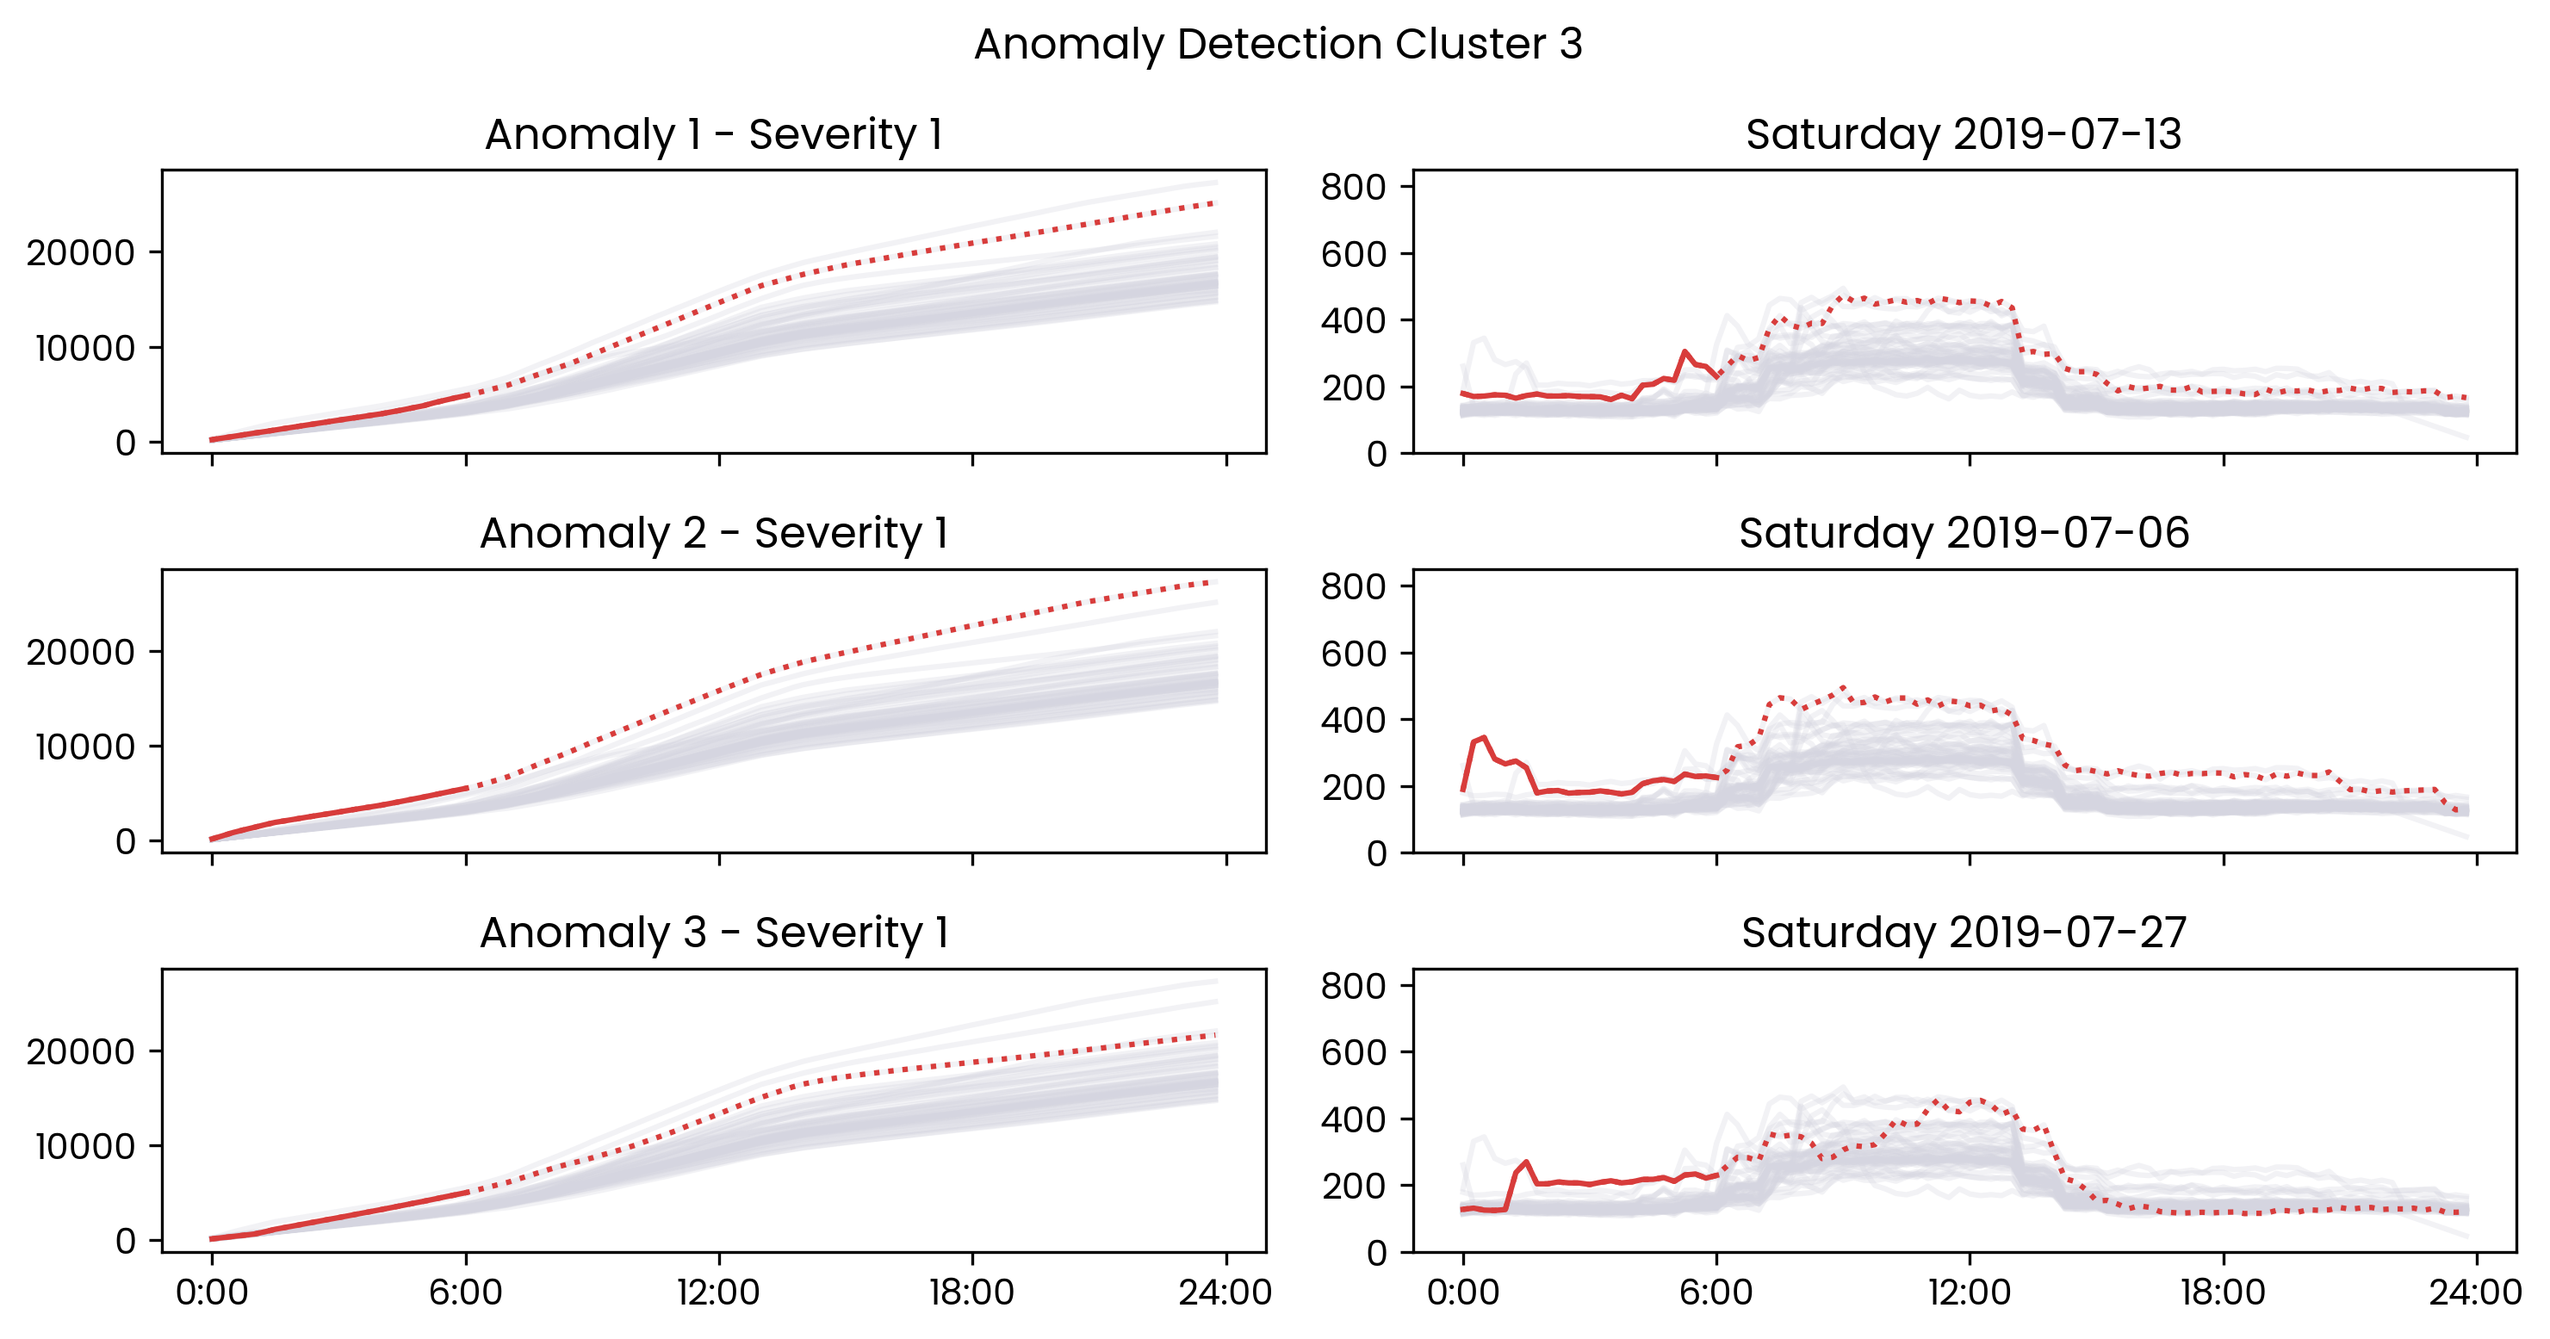
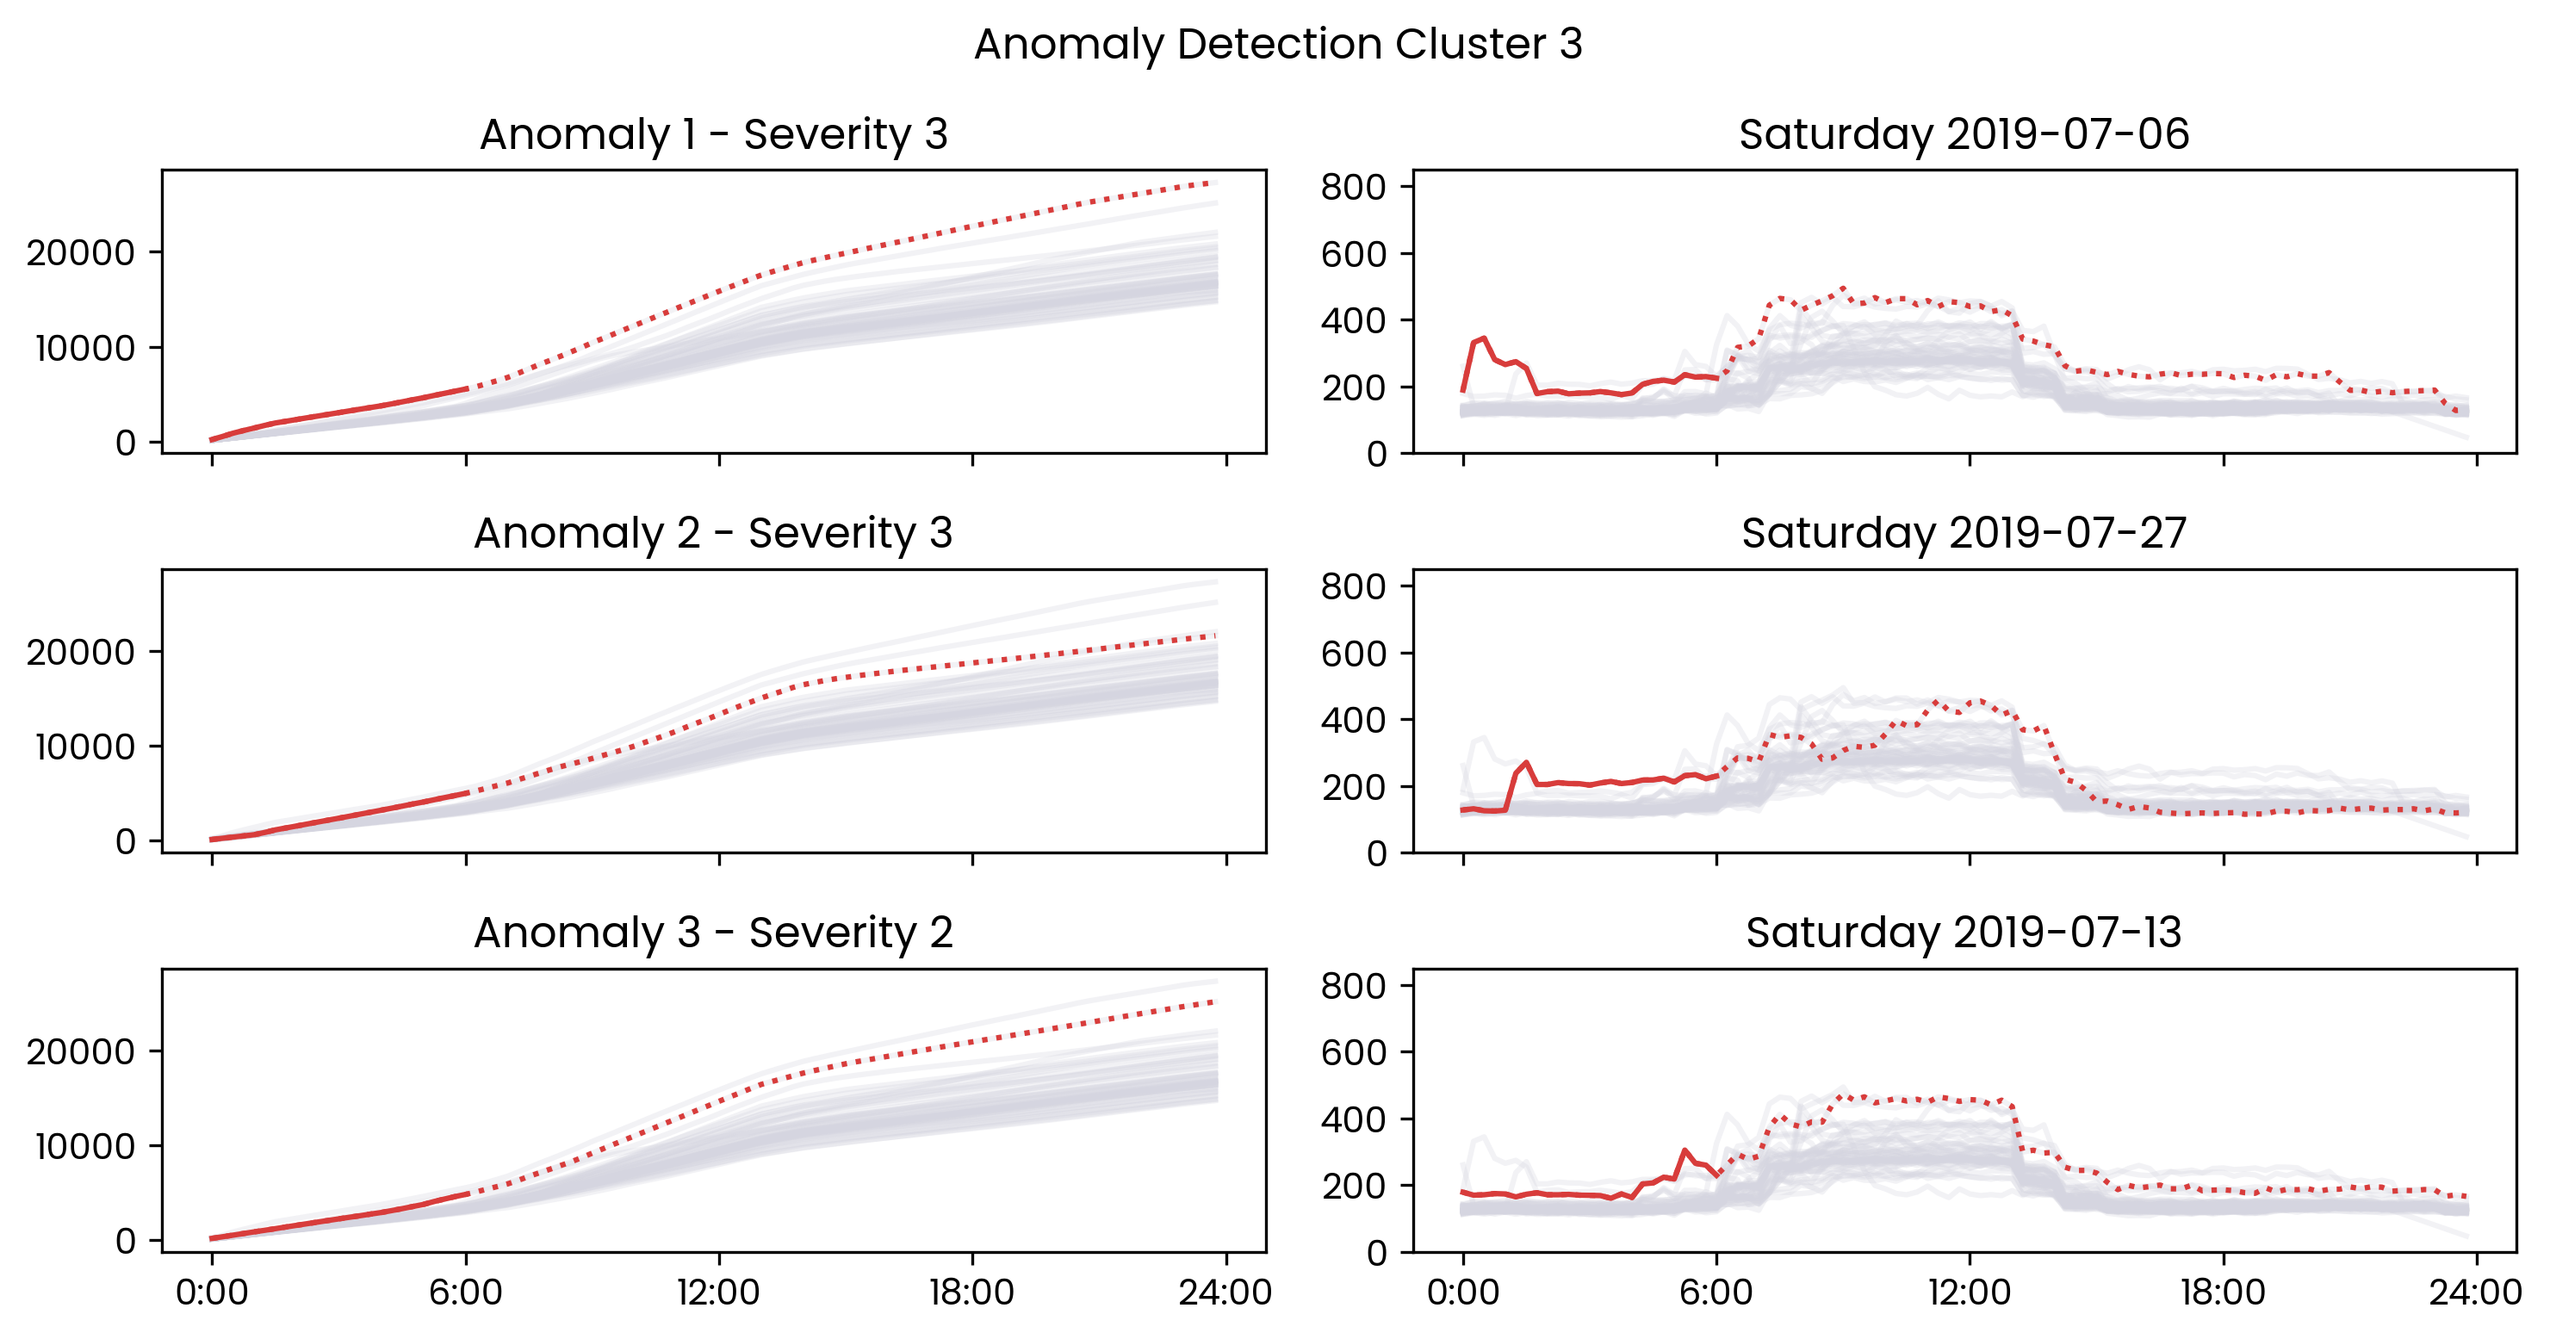
added zscore and elbow and tested on the overall script
problem with plot to be solved

diff --git a/Roberto Chiosa/CMP/anomaly_detection_functions.py b/Roberto Chiosa/CMP/anomaly_detection_functions.py
@@ -1,43 +1,49 @@
-import os
-
 import matplotlib.pyplot as plt
 import numpy as np
 import pandas as pd
+import scipy.stats as stats
+import seaborn as sns
+from kneed import KneeLocator
 
 
-######################## METHOD_1_MEDIAN_BOXPLOT ###########################
-def anomaly_detection_boxplot(group, group_cmp):
+def boxplot_fun(group, group_cmp):
+    """ Implements outlier detection through IQR rule and box-plot
+
+    :param group: is an 365 length array defining group (values 0 and 1)
+    :type group: np.ndarray
+
+    :param group_cmp:  is the cmp matrix by group (i.e., cluster)
+    :type group_cmp: np.ndarray
+
+    :return column: array of same length of group specifying if outlier or not (values 0 and 1)
+    :rtype column: np.ndarray
+
+    :return fig: figure of the method
+    :rtype fig: plot
     """
-    :param group: description
-    :type group: array
 
-    :param group_cmp: matrix
-    :type group_cmp: array
+    # get the median of the columns of the matrix
+    columns_median = np.nanmedian(group_cmp, axis=0)
 
-    :return: column array
-    :rtype: the return type description
-    """
-
-    group = np.array(group).flatten()
-
-    columns_median = np.nanmedian(group_cmp, axis=0)  # get the median of the columns
-
+    # plot
     fig, ax = plt.subplots()
     bp = ax.boxplot(columns_median, notch=True, patch_artist=True)
     ax.set_ylabel('Distribution of the columns median')
     ax.axes.get_xaxis().set_visible(False)  # remove x-axis
     ax.set_title('Notched box plot')
 
-    outliers_both_whisker = [flier.get_ydata() for flier in bp["fliers"]]  # get the outliers
+    # get the outliers
+    outliers_both_whisker = [flier.get_ydata() for flier in bp["fliers"]]
     outliers_both_whisker = np.array(outliers_both_whisker)
     outliers = outliers_both_whisker[outliers_both_whisker > np.median(columns_median)]
+
     # create an array of medians according cluster on yearly period
     median_of_day = np.zeros(group.size)
-    jj = 0
-    for ii in range(group.size):
-        if group[ii] == 1 and jj < len(group_cmp):
-            median_of_day[ii] = columns_median[jj]
-            jj = jj + 1
+    j = 0
+    for i in range(0, group.size):
+        if group[i] == 1:
+            median_of_day[i] = columns_median[j]
+            j = j + 1
 
     # take the outliers
     try:
@@ -49,30 +55,139 @@ def anomaly_detection_boxplot(group, group_cmp):
     return column, fig
 
 
-def anomaly_detection(group, group_cmp):
-    """
-    This function implements the anomaly detection methods
+def zscore_fun(group, group_cmp, upper_bound=2):
+    """ Implements outlier detection through z-score standardization
 
-    :param group:
-    :param group_cmp:
-    :return:
+    :param group: is an 365 length array defining group (values 0 and 1)
+    :type group: np.ndarray
+
+    :param group_cmp:  is the cmp matrix by group (i.e., cluster)
+    :type group_cmp: np.ndarray
+
+    :param upper_bound:  upper bount for zscore outlier
+    :type upper_bound: float
+
+    :return column: array of same length of group specifying if outlier or not (values 0 and 1)
+    :rtype column: np.ndarray
+
+    :return fig: figure of the method
+    :rtype fig: plot
     """
-    column_1, plot_1 = anomaly_detection_boxplot(group, group_cmp)
+
+    # get the median of the columns of the matrix
+    columns_median = np.nanmedian(group_cmp, axis=0)
+
+    zscore = stats.zscore(columns_median)
+
+    fig, ax = plt.subplots()
+    sns.kdeplot(data=zscore)
+    plt.axvline(x=upper_bound, ymin=0, ymax=1, linestyle='dashed', color='gray')
+
+    # create an array of medians according cluster on yearly period
+    outliers = np.zeros(group.size)
+    j = 0
+
+    # define vector outliers as same dimensions of group (365)
+    for i in range(group.size):
+        if group[i] == 1:
+            outliers[i] = zscore[j]
+            j = j + 1
+
+    # identify outliers depending on the upper bound
+    for k in range(group.size):
+        if outliers[k] > upper_bound:
+            outliers[k] = 1
+        else:
+            outliers[k] = 0
+
+    column = outliers
+    return column, fig
+
+
+def elbow_fun(group, group_cmp):
+    """ Implements outlier detection through elbow method, the values on the sx of the elbow of a curve are labelled as anomaly
+
+    :param group: is an 365 length array defining group (values 0 and 1)
+    :type group: np.ndarray
+
+    :param group_cmp:  is the cmp matrix by group (i.e., cluster)
+    :type group_cmp: np.ndarray
+
+    :return column: array of same length of group specifying if outlier or not (values 0 and 1)
+    :rtype column: np.ndarray
+
+    :return fig: figure of the method
+    :rtype fig: plot
+    """
+
+    columns_median = np.nanmedian(group_cmp, axis=0)  # get the median of the columns
+
+    xx = np.array(range(0, columns_median.size))
+    yy = np.sort(columns_median)[::-1]  # decreasing
+    kn = KneeLocator(xx, yy, curve='convex', direction='decreasing')
+    num_anomalies_to_show = kn.knee
+
+    fig, ax = plt.subplots(figsize=(6, 5))
+    plt.plot(yy)
+    plt.ylabel("Anomaly Score")
+    plt.title("Sorted Anomaly Scores")
+    plt.axvline(num_anomalies_to_show, ls=":", c="gray")
+    anomaly_ticks = list(range(0, columns_median.size, int(columns_median.size / 5)))
+    anomaly_ticks.append(num_anomalies_to_show)
+    plt.xticks(anomaly_ticks)
+
+    # create an array of medians according cluster on yearly period
+    outliers = np.zeros(group.size)
+
+    j = 0
+    for i in range(group.size):
+        if group[i] == 1:
+            outliers[i] = columns_median[j]
+            j = j + 1
+
+    # take the outliers
+    anomaly_day = yy[0:num_anomalies_to_show]
+    threshold = min(anomaly_day)
+    column = (outliers >= threshold) * 1
+
+    return column, fig
+
+
+def anomaly_detection(group, group_cmp):
+    """ This function implements the anomaly detection methods
+
+    :param group: is an 365 length array defining group (values 0 and 1)
+    :type group: np.ndarray
+
+    :param group_cmp:  is the cmp matrix by group (i.e., cluster)
+    :type group_cmp: np.ndarray
+
+    :return cmp_ad_score: array of same length of group specifying the severity
+    :rtype cmp_ad_score: np.ndarray
+
+    """
+    column_1, plot_1 = boxplot_fun(group=group, group_cmp=group_cmp)
+    column_2, plot_2 = zscore_fun(group=group, group_cmp=group_cmp, upper_bound=2.5)
+    column_3, plot_3 = elbow_fun(group=group, group_cmp=group_cmp)
 
     df = pd.DataFrame()
     df['box-plot'] = pd.Series(column_1.astype(int))
+    df['z-score'] = pd.Series(column_2.astype(int))
+    df['elbow'] = pd.Series(column_3.astype(int))
 
     # majority voting
     df['severity'] = df.sum(axis=1, numeric_only=True)
 
     # return the severity as ndarray to integrate on main code
     cmp_ad_score = np.asarray(df['severity'])
+
     return cmp_ad_score
 
 
-#
-## group
-# useful paths
+# uncomment when testing / comment when deploying
+
+import os
+
 path_to_data = os.getcwd() + os.sep + 'Polito_Usecase' + os.sep + 'data'
 path_to_figures = os.getcwd() + os.sep + 'Polito_Usecase' + os.sep + 'figures'
 

diff --git a/Simone Vitale/Anomaly_Score/methods.py b/Simone Vitale/Anomaly_Score/methods.py
@@ -1,16 +1,16 @@
 ## import
-import os
 import matplotlib.pyplot as plt
-import seaborn as sns
-import pandas as pd
 import numpy as np
-
-from scipy import stats
-from kneed import KneeLocator
+import os
+import pandas as pd
+import seaborn as sns
 from GESD_function import ESD_Test
+from kneed import KneeLocator
+from scipy import stats
+
 
 ######################## METHOD_1_MEDIAN_BOXPLOT ###########################
-def boxplot_fun(group,group_cmp):
+def boxplot_fun(group, group_cmp):
     '''
     This function helps to analyze data through box-plot
     :param group: is an array of length 365 holding cluster membership through values 0 and 1
@@ -29,8 +29,8 @@ def boxplot_fun(group,group_cmp):
     ax.set_title('Notched box plot')
 
     outliers_both_whisker = [flier.get_ydata() for flier in bp["fliers"]]  # get the outliers
-    outliers_both_whisker=np.array(outliers_both_whisker)
-    outliers= outliers_both_whisker[outliers_both_whisker>np.median(columns_median)]
+    outliers_both_whisker = np.array(outliers_both_whisker)
+    outliers = outliers_both_whisker[outliers_both_whisker > np.median(columns_median)]
 
     # create an array of medians according cluster on yearly period
     median_of_day = np.zeros(group.size)
@@ -48,46 +48,47 @@ def boxplot_fun(group,group_cmp):
 
 
 ######################## METHOD_2_ZSCORE-MEDIAN ###########################
-def zscore_fun(group,group_cmp):
-   '''
-   This function helps to analyze data through z-score trasformation
-   :param group: is an array of length 365 holding cluster membership through values 0 and 1
-   :param group_cmp: is the cmp by cluster
-   :return: this function will return an outliers in the form( true or false) and a figure
-   '''
+def zscore_fun(group, group_cmp):
+    '''
+    This function helps to analyze data through z-score trasformation
+    :param group: is an array of length 365 holding cluster membership through values 0 and 1
+    :param group_cmp: is the cmp by cluster
+    :return: this function will return an outliers in the form( true or false) and a figure
+    '''
 
-   group = np.array(group).flatten()
-   columns_median = np.nanmedian(group_cmp, axis=0)  # get the median of the columns
-   zscore=stats.zscore(columns_median)
+    group = np.array(group).flatten()
+    columns_median = np.nanmedian(group_cmp, axis=0)  # get the median of the columns
+    zscore = stats.zscore(columns_median)
 
-   upper_bound=2
+    upper_bound = 2
 
-   fig_2 ,ax=plt.subplots()
-   sns.kdeplot(data=zscore)
-   plt.axvline(x=upper_bound,ymin=0,ymax=1,linestyle='dashed',color='gray')
+    fig_2, ax = plt.subplots()
+    sns.kdeplot(data=zscore)
+    plt.axvline(x=upper_bound, ymin=0, ymax=1, linestyle='dashed', color='gray')
 
-   # create an array of medians according cluster on yearly period
-   outliers = np.zeros(group.size)
-   jj = 0
+    # create an array of medians according cluster on yearly period
+    outliers = np.zeros(group.size)
+    jj = 0
 
-   for ii in range(group.size):
-       if group[ii] == 1 and jj < (len(group_cmp)):
-           outliers[ii] = zscore[jj]
-           jj = jj + 1
+    for ii in range(group.size):
+        if group[ii] == 1 and jj < (len(group_cmp)):
+            outliers[ii] = zscore[jj]
+            jj = jj + 1
 
-   for kk in range(group.size):
-       if  outliers[kk]>upper_bound:
-           outliers[kk]=1
-       else:
-           outliers[kk]=0
+    for kk in range(group.size):
+        if outliers[kk] > upper_bound:
+            outliers[kk] = 1
+        else:
+            outliers[kk] = 0
 
-   # take the outliers
-   column_2=outliers
+    # take the outliers
+    column_2 = outliers
 
-   return(column_2, fig_2)
+    return (column_2, fig_2)
+
 
 ######################## METHOD_3_ELBOW ###########################
-def elbow_fun(group,group_cmp):
+def elbow_fun(group, group_cmp):
     '''
     This function helps to analyze data elbow-methods: the values below the elbow of a curve are labelled as anomaly
     :param group: is an array of length 365 holding cluster membership through values 0 and 1
@@ -99,17 +100,17 @@ def elbow_fun(group,group_cmp):
 
     columns_median = np.nanmedian(group_cmp, axis=0)  # get the median of the columns
 
-    xx = np.array(range(0,columns_median.size))
-    yy = np.sort(columns_median)[::-1] #decreasing
+    xx = np.array(range(0, columns_median.size))
+    yy = np.sort(columns_median)[::-1]  # decreasing
     kn = KneeLocator(xx, yy, curve='convex', direction='decreasing')
     num_anomalies_to_show = kn.knee
 
-    fig_3,ax=plt.subplots(figsize=(6,5))
+    fig_3, ax = plt.subplots(figsize=(6, 5))
     plt.plot(yy)
     plt.ylabel("Anomaly Score")
     plt.title("Sorted Anomaly Scores")
     plt.axvline(num_anomalies_to_show, ls=":", c="gray")
-    anomaly_ticks = list(range(0,columns_median.size, int(columns_median.size/ 5)))
+    anomaly_ticks = list(range(0, columns_median.size, int(columns_median.size / 5)))
     anomaly_ticks.append(num_anomalies_to_show)
     plt.xticks(anomaly_ticks)
 
@@ -126,12 +127,13 @@ def elbow_fun(group,group_cmp):
     # take the outliers
     anomaly_day = yy[0:num_anomalies_to_show]
     threshold = min(anomaly_day)
-    column_3=(outliers >= threshold)*1
+    column_3 = (outliers >= threshold) * 1
 
     return (column_3, fig_3)
 
+
 ######################## METHOD_4_GESED ###########################
-def gesd_fun(group,group_cmp):
+def gesd_fun(group, group_cmp):
     '''
     This function helps to detect outliers through GESD-test:
     :param group: is an array of length 365 holding cluster membership through values 0 and 1
@@ -147,7 +149,7 @@ def gesd_fun(group,group_cmp):
     stats.probplot(columns_median, dist="norm", plot=plt)
     plt.show()
 
-    GESD_df, n_outliers =ESD_Test(columns_median, 0.05, 10)
+    GESD_df, n_outliers = ESD_Test(columns_median, 0.05, 10)
 
     # create an array of medians according cluster on yearly period
     outliers = np.zeros(group.size)

diff --git a/Roberto Chiosa/CMP/Polito_Usecase.py b/Roberto Chiosa/CMP/Polito_Usecase.py
@@ -329,7 +329,7 @@ for u in range(len(time_window)):
                                    )
             fig.suptitle("Anomaly Detection " + group_name.replace("_", " "))
 
-            for j in range(num_anomalies_to_show):
+            for j in range(0, num_anomalies_to_show):
                 anomaly_index = ad_order[j]
                 anomaly_range = range(obs_per_day * anomaly_index, obs_per_day * (anomaly_index + 1))
                 date = day_labels[anomaly_index]
